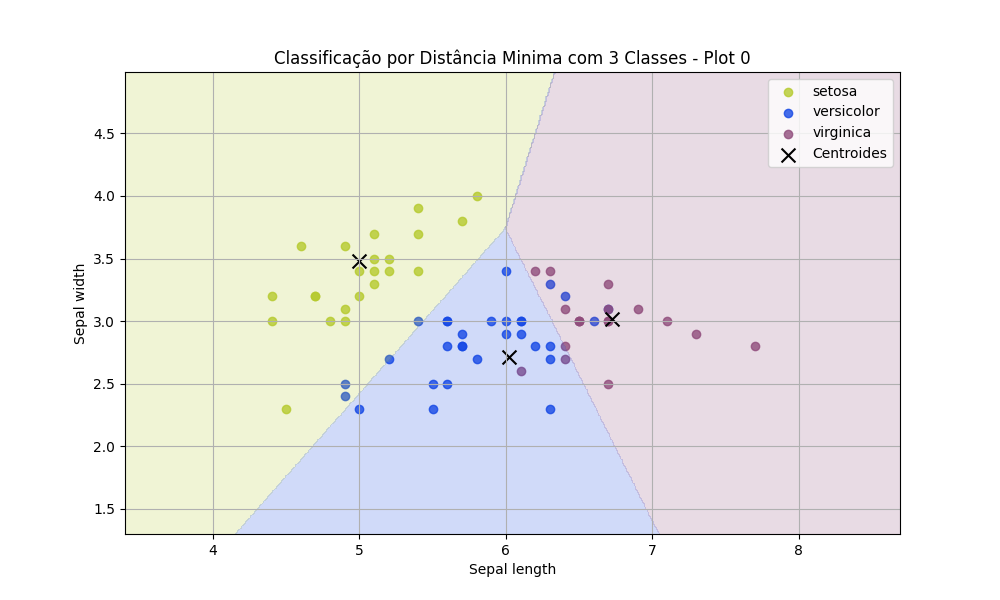
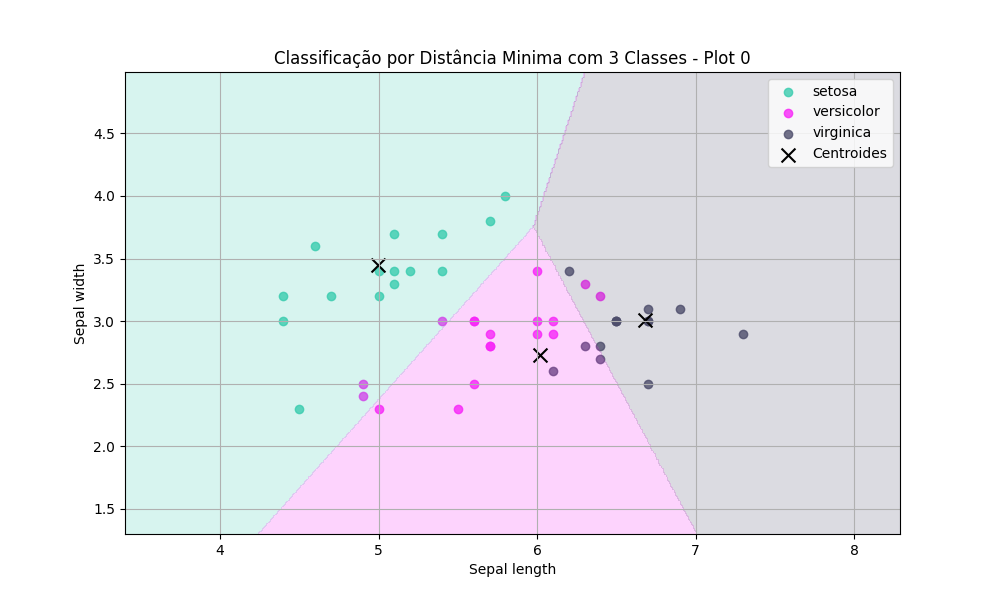
Tentativa de percepthon

diff --git a/backend/controllers/Perceptron.py b/backend/controllers/Perceptron.py
@@ -1,31 +1,108 @@
 import numpy as np
+import numpy as np
+import pandas as pd
+import matplotlib.pyplot as plt
+from sklearn.metrics import confusion_matrix
 
 class Perceptron:
     def __init__(self, input_size=0, learning_rate=0.01, epochs=100):
-        # Inicializa os pesos e o viés com valores aleatórios
-        self.weights = np.random.rand(input_size)
-        self.bias = np.random.rand()
-        self.learning_rate = learning_rate
-        self.epochs = epochs
+        self.model = {
+            "weights": None,
+            "bias": None,
+            "learning_rate": learning_rate,
+            "epochs": epochs
+        }
 
     def activation_function(self, x):
-        # Função de ativação (degrau)
         return 1 if x >= 0 else 0
 
-    def predict(self, x):
-        # Calcula a soma ponderada e aplica a função de ativação
-        linear_output = np.dot(x, self.weights) + self.bias
+    def fit(self, x):
+        #print("x",x, "weights",self.model["weights"])
+        linear_output = np.dot(x, self.model["weights"]) + self.model["bias"]
         return self.activation_function(linear_output)
 
-    def train(self, X, y):
-        # X é a matriz de entradas e y são os rótulos esperados
-        for _ in range(self.epochs):
-            for xi, target in zip(X, y):
-                # Faz a predição
-                prediction = self.predict(xi)
-                # Calcula o erro
+    def train(self, x_train, y_train):
+        #Pesos e bias
+        self.model["weights"] = np.zeros(x_train.shape[1])
+        self.model["bias"] = np.zeros(1)
+        
+        for _ in range(self.model["epochs"]):
+            for xi, target in zip(x_train.values, y_train):
+                #print("xi ",xi)
+                prediction = self.fit(xi)
                 error = target - prediction
-                # Atualiza os pesos e o viés
-                self.weights += self.learning_rate * error * xi
-                self.bias += self.learning_rate * error
+                self.model["weights"] += self.model["learning_rate"] * error * xi
+                self.model["bias"] += self.model["learning_rate"] * error
+        
+        return self.model
 
+    def pressure(self, y_test, result, feature):
+        if 'Prediction' not in result.columns:
+            return "Coluna 'Prediction' não encontrada em result"
+        
+        matrixConfusion = confusion_matrix(y_test, result['Prediction'])
+        self.matrixConfusion = matrixConfusion
+
+        classes = sorted(set(y_test) | set(result['Prediction']))
+        df_matrixConfusion = pd.DataFrame(matrixConfusion, index=classes, columns=classes)
+        
+        formatted_matrix = [
+            {feature: row, **{col: int(df_matrixConfusion.at[row, col]) for col in classes}} for row in classes
+        ]
+        
+        return formatted_matrix
+
+    def plot(self, colors, columnX, columnY, x_test, classifications, index, folder):
+        dataResult = x_test.copy()
+        
+        if 'Prediction' not in dataResult.columns:
+            raise KeyError("A coluna 'Prediction' não está presente em dataResult")
+
+        plt.switch_backend('Agg')
+
+        x_min, x_max = dataResult[columnX].min() - 1, dataResult[columnX].max() + 1
+        y_min, y_max = dataResult[columnY].min() - 1, dataResult[columnY].max() + 1
+        xx, yy = np.meshgrid(np.arange(x_min, x_max, 0.01), np.arange(y_min, y_max, 0.01))
+
+        centroids = np.array([self.model["weights"]])
+        distances = np.zeros((xx.shape[0], xx.shape[1], centroids.shape[0]))
+        for i, centroid in enumerate(centroids):
+            distances[:, :, i] = np.sqrt((xx - centroid[0])**2 + (yy - centroid[1])**2)
+
+        Z = np.argmin(distances, axis=2)
+
+        plt.figure(figsize=(10, 6))
+
+        for idx, (key, tipo) in enumerate(classifications.items()):
+            plt.scatter(
+                dataResult[dataResult['Prediction'] == tipo][columnX],
+                dataResult[dataResult['Prediction'] == tipo][columnY],
+                color=colors[idx],
+                alpha=0.8,
+                label=tipo
+            )
+
+        plt.contourf(xx, yy, Z, alpha=0.2, colors=colors, levels=[-0.5, 0.5, 1.5, 2.5])
+        plt.scatter(self.model["weights"][columnX], self.model["weights"][columnY], c='black', marker='x', s=100, label='Centroides')
+
+        plt.title(f'Classificação por Distância Minima com {len(colors)} Classes - Plot {index}')
+        plt.xlabel(columnX)
+        plt.ylabel(columnY)
+        plt.legend()
+        plt.grid(True)
+    
+        image_path = f'{folder}/plot_{index}.png'
+        plt.savefig(image_path)
+        plt.close()
+        return image_path
+    
+    def getData(self):
+        return self.model
+    
+    def setData(self, x_train, y_train, feature):
+        print("Cheguei data")
+        self.model = self.train(x_train, y_train)
+        self.typeClass = list(set(y_train))
+
+    def getMatrizConfusion(self):
+        return self.matrixConfusion

diff --git a/backend/app.py b/backend/app.py
@@ -125,12 +125,12 @@ def upload_file():
         # Converte para um valor de 0 a 1
         testCase = float(request.form['testCase']) / 100  
 
-        # Inicializa a instância da classe `Capture` e usar setData e shareData
+        # Inicializa a instância da classe `Capture` e usar setData e shareData "perceptrondelta", , "neuralnetworks", "partitionalcluster","boltzmanmachine"
         capture.setData(file, feature, file_extension)
         capture.shareData(feature, testCase)
         colors.setData(len(capture.y_train.unique()))
 
-        models = ["minimumdistanceclassifier", "perceptronsimples", "perceptrondelta", "bayesclassifier", "neuralnetworks", "partitionalcluster","boltzmanmachine"]
+        models = ["minimumdistanceclassifier", "perceptronsimples",  "bayesclassifier"]
         return jsonify({"message": "O arquivo foi passado corretamente", "data": len(capture.getData().to_dict(orient='records')),"test": len(capture.y_test), "models": models}), 200
     else:
         return jsonify({"message": "Invalid file type"}), 400
@@ -228,7 +228,7 @@ def get_bayesClassifier():
         for idx, (col1, col2) in enumerate(combinations(columns, 2)):
             plot_path = bayesClassifier.plot(colors.getData(), col1, col2, predictions, capture.getClassifications(), f'{idx}', folder)
             plots.append(plot_path)
-
+        
         response_data = {
             "message": "Modelo bayesClassifier criado",
             "Name": "Classificador de Bayes",
@@ -245,39 +245,61 @@ def get_bayesClassifier():
 
 #Rota do algoritmo do classificador de Perceptron Simples
 @app.route('/api/perceptronsimples', methods=['GET'])
-
 def get_perceptronSimples():
-    global capture, colors
-    #Verifica se tem dados
+    global capture, perceptronsimples, colors
     if capture.data is not None:
+        # Treina o modelo
+        perceptronsimples.setData(capture.x_train, capture.y_train, capture.feature)
+        
+       
+        # Predição
+        '''predictions = perceptronsimples.fit(capture.x_test) 
+        # Transcreve para os nomes das classes
+        predictions["Prediction"] = capture.transcribe(predictions["Prediction"])
+        '''
+        # Modelo treinado
+        model = perceptronsimples.getData()
+        #Adaptar para json
+        model["weights"] = model["weights"].tolist()
+        model["bias"] = model["bias"].tolist()
 
-        folder = f'{directory}perceptronsimples'
+        ''' # Organizar dados de treinamento para resposta
+        train = [
+            {**features}
+            for species, features in predictions.transpose().items()
+        ]'''
+        
+        # Criar diretório para plots
+        folder = f'{directory}/perceptronsimples'
         prepare_directory(folder)
 
-        precision= None#.pressure(capture.transcribe(capture.y_test), predictions, capture.feature)
+        # Calcula precisão (confusão)
+        #precision = perceptronsimples.pressure(capture.transcribe(capture.y_test), predictions, capture.feature)
 
-        #Possibilidade de itens para combinação
+        # Obter nomes das colunas
         columns = list(capture.x_test.columns)
         plots = []
 
-        #combinação dos atributos
-        #for idx, (col1, col2) in enumerate(combinations(columns, 2)):
-            #plot_path = .plot(colors.getData(), col1, col2, predictions, capture.getClassifications(), f'{idx}', folder)
-            #plots.append(plot_path)
-
+        # Gerar combinações de atributos para os gráficos
+        '''for idx, (col1, col2) in enumerate(combinations(columns, 2)):
+            plot_path = perceptronsimples.plot(colors.getData(), col1, col2, capture.x_test, capture.getClassifications(), f'{idx}', folder)
+            plots.append(plot_path)'''
+        print("Model",model)
+        # Resposta
         response_data = {
             "message": "Modelo perceptron Simples criado",
             "Name": "Classificador Perceptron Simples",
             "Model": model,
-            "Train": train,
-            "Precision": precision,
+            "Train": '''train''',
+            "Precision": '''precision''',
             "Plots": plots,
-            "Id" : "perceptronsimples"
+            "Id": "perceptronsimples"
         }
 
         return jsonify(response_data)
     else:
         return jsonify({"message": "Invalid data"}), 400
+
 
 #Rota do algoritmo do classificador de Perceptron com Delta
 @app.route('/api/perceptrondelta', methods=['GET'])
